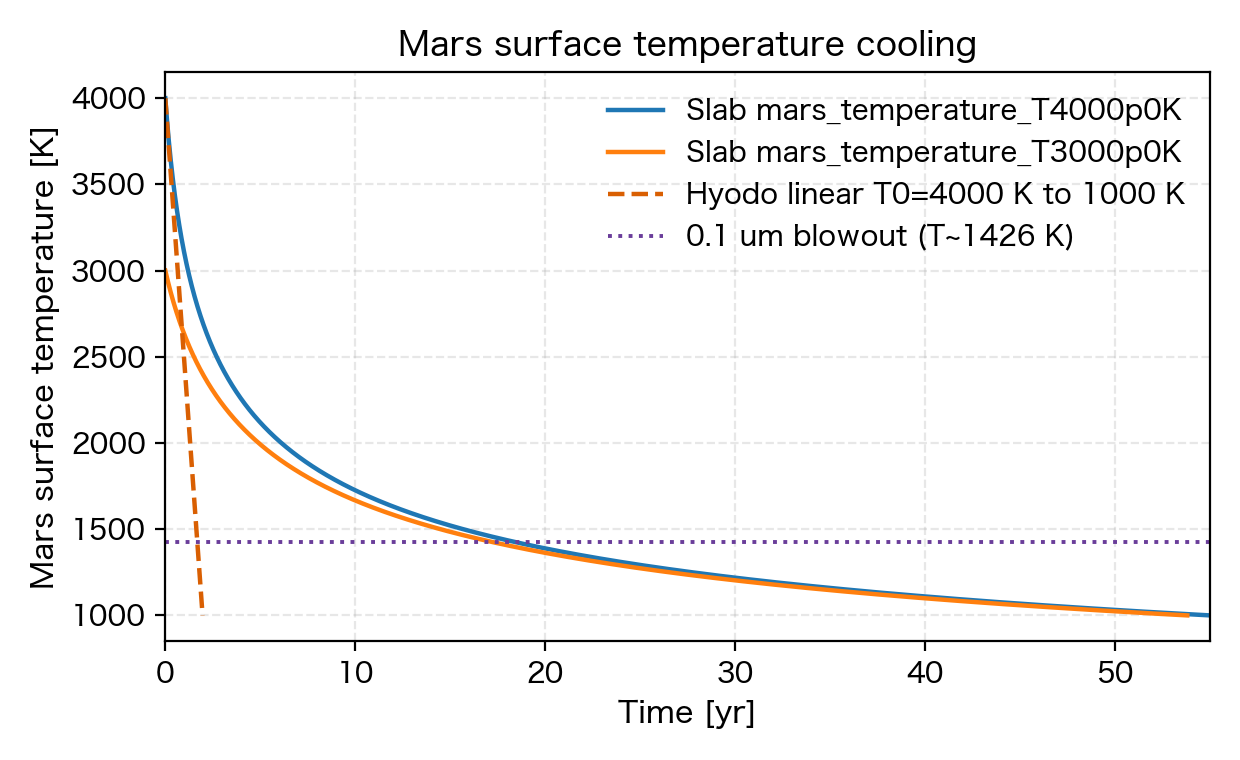
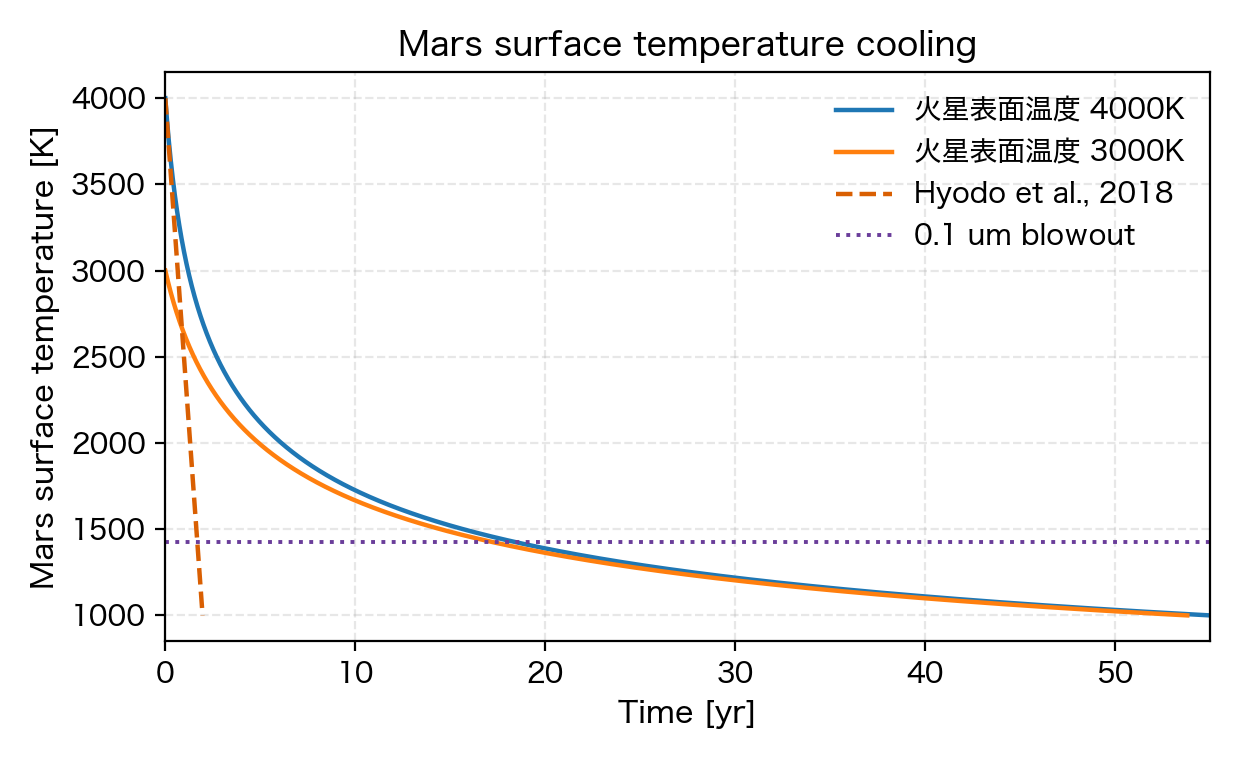
figures: update mars surface temperature plot

Changed region(s): [[0.4903, 0.1211, 0.95, 0.3329], [0.4903, 0.2421, 0.521, 0.2724]]

diff --git a/scripts/plots/plot_mars_surface_temperature.py b/scripts/plots/plot_mars_surface_temperature.py
@@ -69,7 +69,17 @@ def _time_to_years(values: pd.Series, column: str) -> pd.Series:
 
 
 def _infer_label(path: Path) -> str:
-    match = re.search(r"T(?P<value>\\d+(?:p\\d+)?)K", path.stem)
+    match = re.search(r"mars_temperature_T(?P<value>\d+(?:p\d+)?)K", path.stem)
+    if match:
+        raw = match.group("value").replace("p", ".")
+        try:
+            value = float(raw)
+        except ValueError:
+            value = raw
+        if isinstance(value, float) and abs(value - round(value)) < 1.0e-6:
+            return f"火星表面温度 {int(round(value))}K"
+        return f"火星表面温度 {value}K"
+    match = re.search(r"T(?P<value>\d+(?:p\d+)?)K", path.stem)
     if match:
         raw = match.group("value").replace("p", ".")
         return f"Slab T0={raw} K"
@@ -297,7 +307,7 @@ def main(argv: Iterable[str] | None = None) -> None:
         ax.plot(
             hyodo_data["time_years"],
             hyodo_data["temperature_K"],
-            label=f"Hyodo linear T0={args.hyodo_T0:g} K to {args.hyodo_floor:g} K",
+            label="Hyodo et al., 2018",
             linestyle="--",
             color="#d95f02",
         )
@@ -321,7 +331,7 @@ def main(argv: Iterable[str] | None = None) -> None:
                 color="#6a3d9a",
                 linestyle=":",
                 linewidth=1.4,
-                label=f"{args.blowout_size_um:g} um blowout (T~{T_blow:.0f} K)",
+                label=f"{args.blowout_size_um:g} um blowout",
             )
     ax.set_xlabel("Time [yr]")
     ax.set_ylabel("Mars surface temperature [K]")
